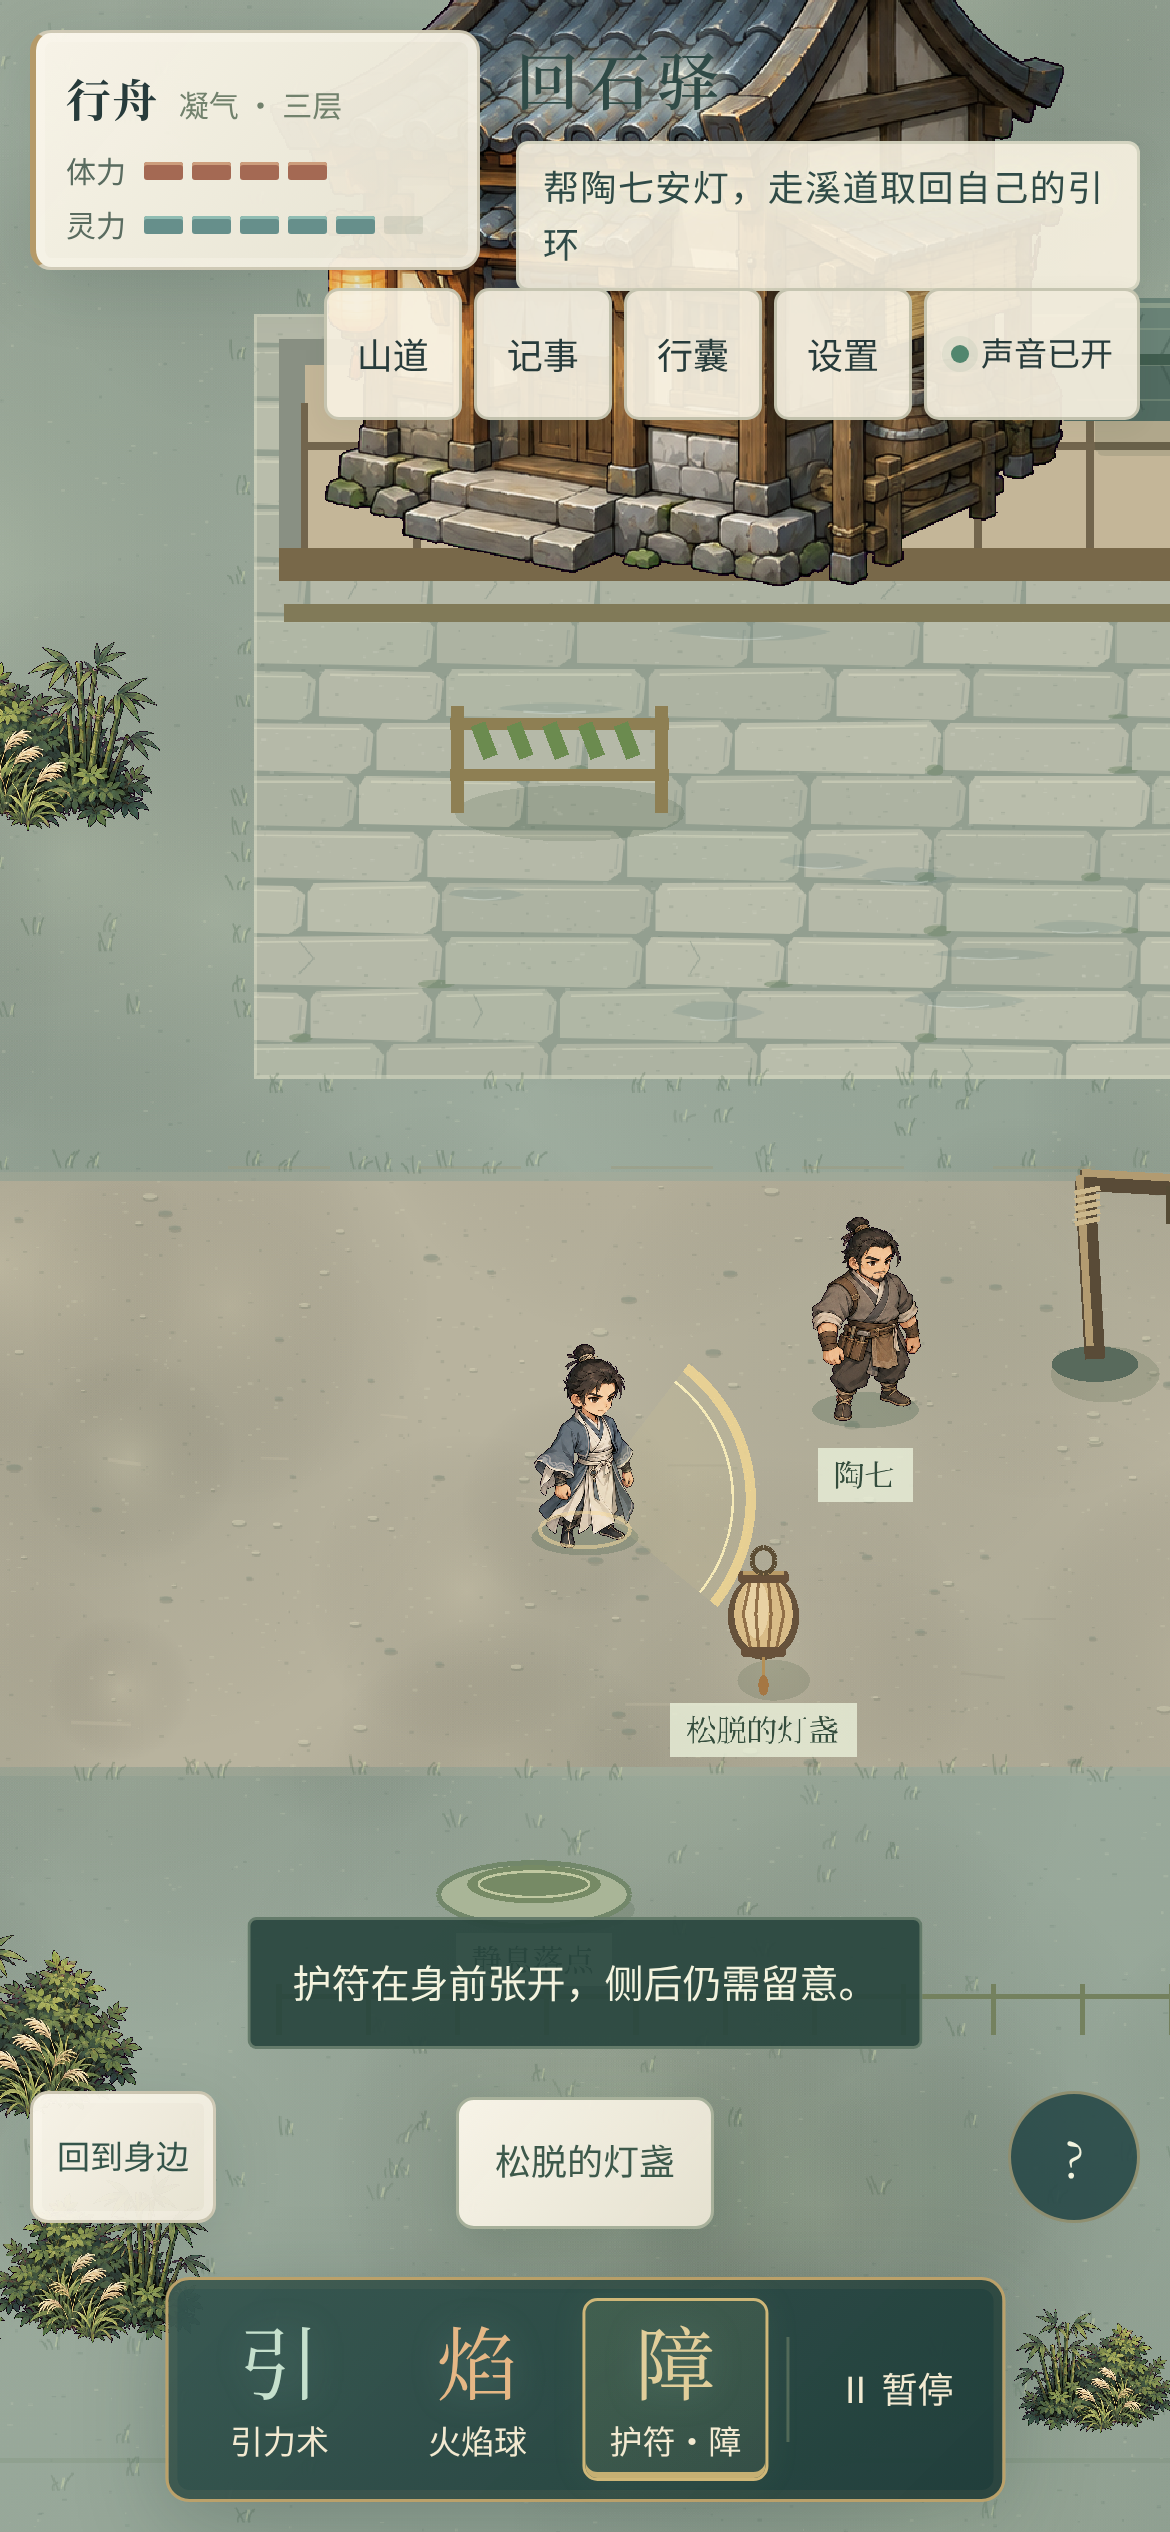
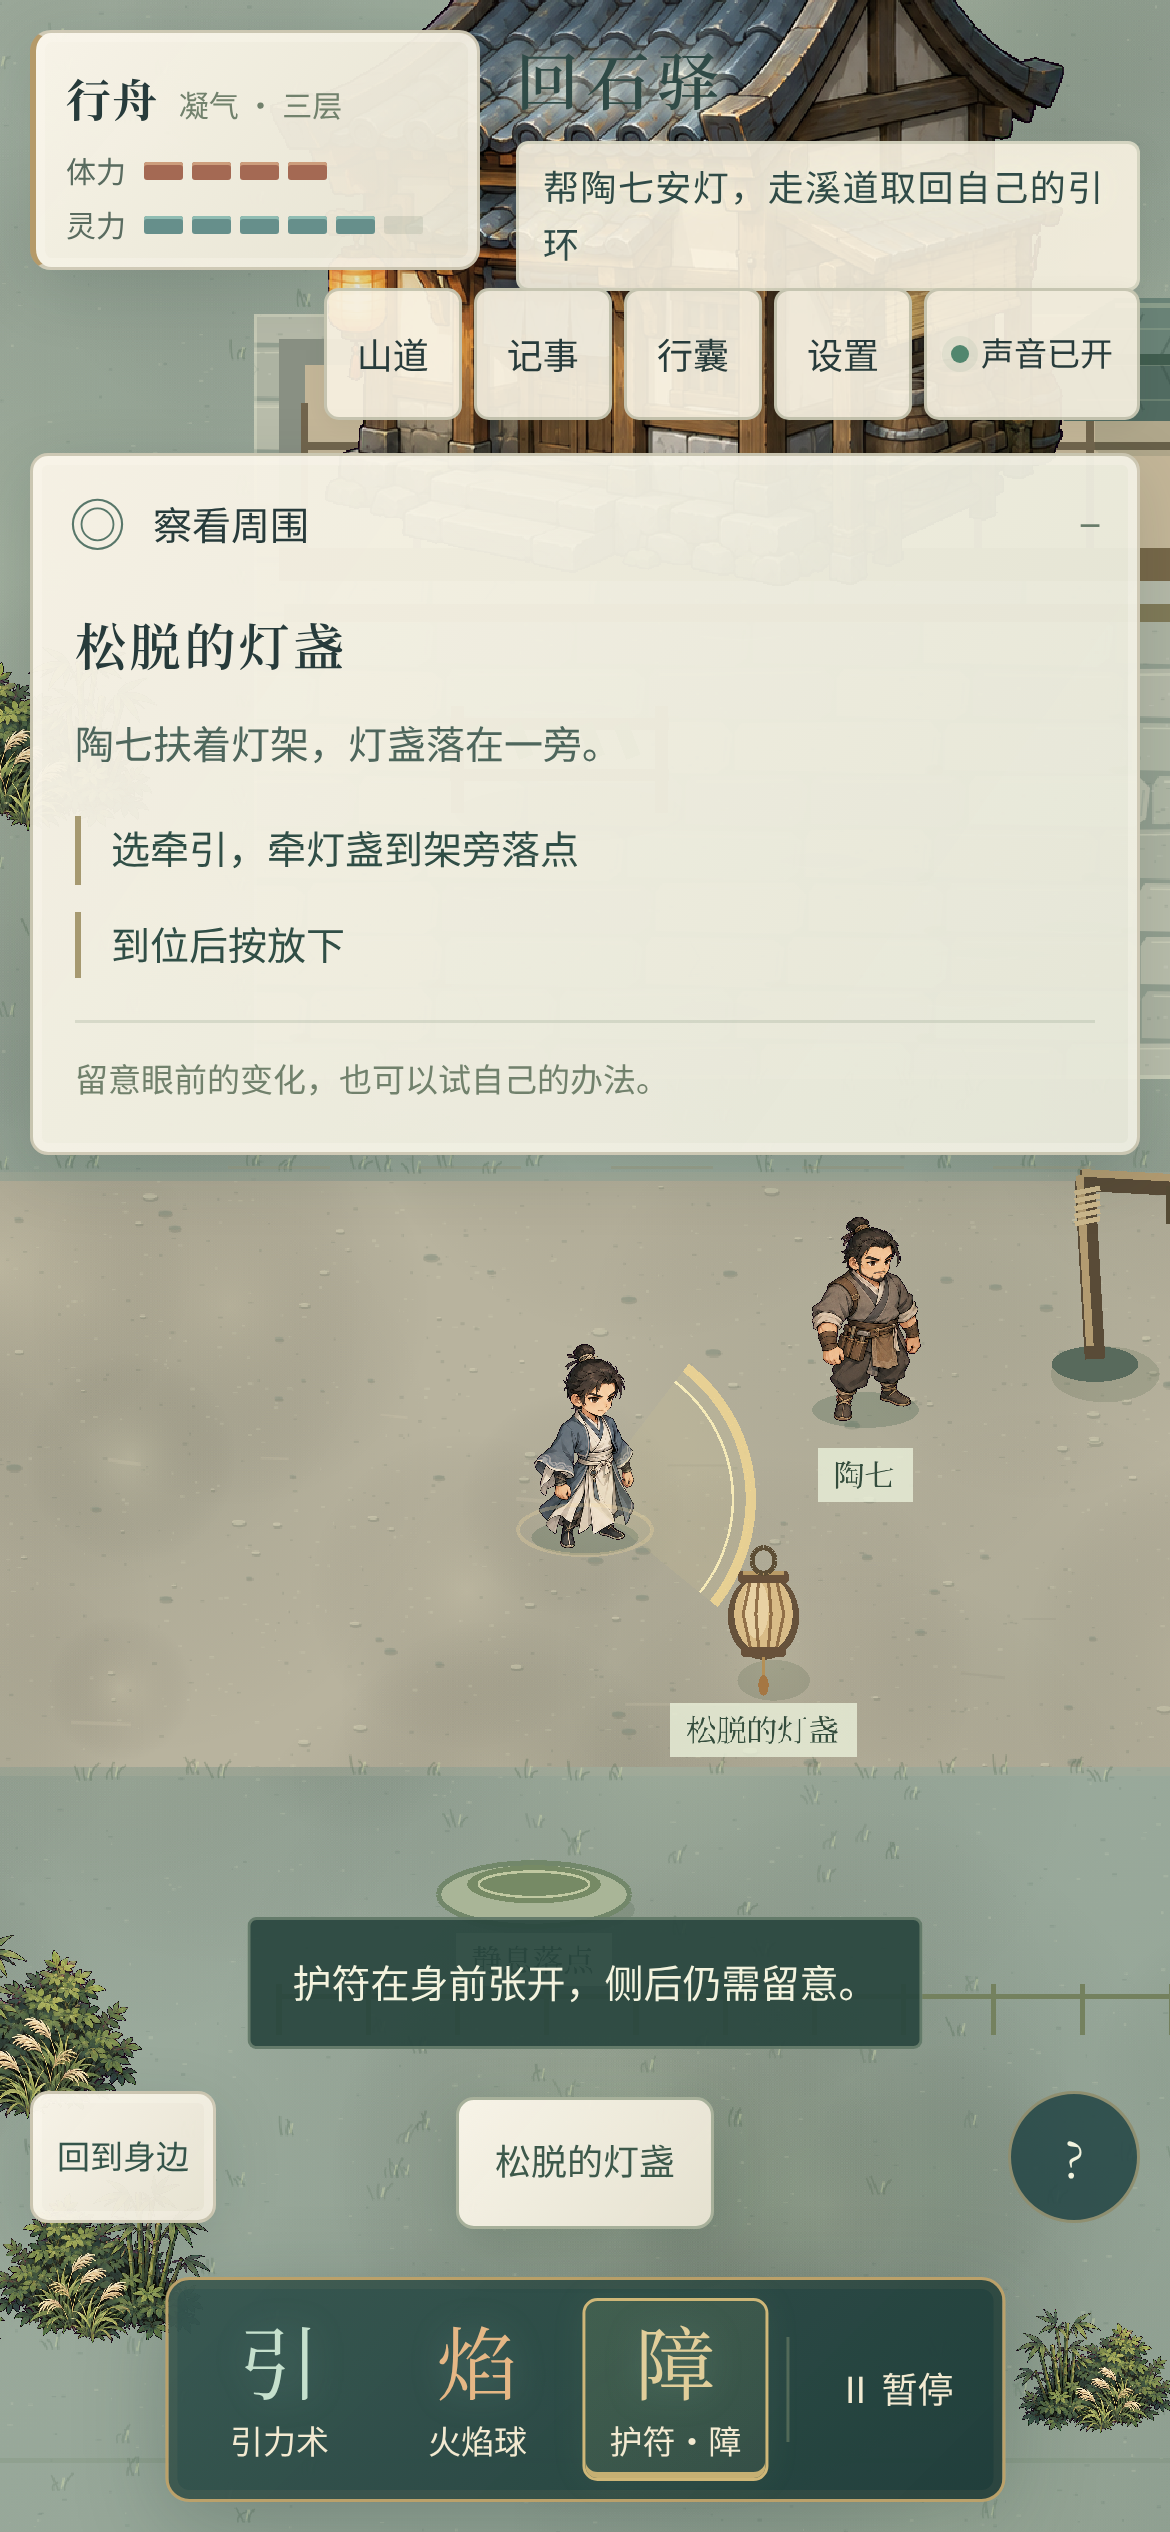
Record verified public 0.2.0 release and handoff

Changed region(s): [[0.0, 0.156, 0.9846, 0.468], [0.4615, 0.5928, 0.4923, 0.624]]

diff --git a/HANDOFF.md b/HANDOFF.md
@@ -1,37 +1,39 @@
-# 《仙逆：山门之外》首版交接
+# 《仙逆：山门之外》交接
 
-2026-09-09。先读本文件、AGENTS.md、docs/PROGRESS.md及git status/log。用户最新反馈为整体明显改善、细节仍多、当前先保留，并询问后续规划；随后回复“可以，交给你”，授权推进；本轮实施[0.2首章深化](design/PLAYABILITY_020.md)，0.3/0.4仍按路线顺序另行收敛。此前反馈为操作白线拉低质感；0.1.2 已上线并完成公网复查，移除瞄准长线/范围圈，牵物改淡青曲线、留势断开连接、手机抬手收起瞄准，详情见 [0.1.2 修订](design/QUALITY_PATCH_012.md)。此前0.1.1的高清渲染、手机布局、配乐、命中反馈继续保留。上轮 [改版目标图](design/QUALITY_REVISION.md)仍非实机，整套手绘资产重制未完成。不能把流程 PASS 当作用户认可品质；不重做小说研究或恢复旧发布拦截。
+2026-09-09。先读本文件、AGENTS.md、docs/PROGRESS.md及git status/log。用户认可0.1.2整体比此前好，细节暂时保留；后对后续路线回复“可以，交给你”。本轮已完成并发布 **0.2.0 首章玩法深化**。具体规格见[PLAYABILITY_020](design/PLAYABILITY_020.md)，后续顺序见[ROADMAP](design/ROADMAP.md)。不重读旧聊天、不重做全书研究、不续作两个封版项目。
 
 ## 交付入口
 
-- 公网试玩：https://mekanuo.github.io/xian-ni-game/ ，无需登录或安装。
-- 工作目录 /home/zhangjingzhou/workspace/xian-ni-game；源码分支feat/return-stone-v1；mekanuo/xian-ni-game默认master未改；gh-pages只放运行资源。
-- 恢复基点bf4d922，完整设计3e02f78，用户已一次确认并创建Goal批准美术、实现、测试与公网首版。
-- 历史M1 4b35f5c、M2 1982250、M3 3d5d5f1均已推送。当前0.1.2源码为034f8c1dfed087cc081c5d6c386c66d16f572fd2，发行分支提交2937aa4745cb4349a4203721c6c9b63a20b32288；线上release.json已经核对为0.1.2及该源码SHA。
-- 最后交付文档提交只更新记录/检查脚本，不改变运行包。以Git实际SHA核对最新说明，不把本文件自身SHA写成固定锚。
+- 公网：https://mekanuo.github.io/xian-ni-game/?v=0.2.0 ，无需账号或安装。
+- 工作目录/home/zhangjingzhou/workspace/xian-ni-game；源码分支feat/return-stone-v1；仓库mekanuo/xian-ni-game；master未改，gh-pages只放运行资源。
+- 恢复基点bf4d922，完整设计3e02f78；用户已确认原创小修士、空间冒险与角色扮演方向。首版Goal此前已完成，本轮没有另建Goal。
+- 0.2规则里程碑860bbb4、集成源码6c76f2c4d2d18bed62dab46a4da2e8c727dac085均已推送；发行提交00467b687ea03b7bd8af33dc8c39230fe9c6bf79，公网release.json核对为0.2.0及该源码SHA。
+- 最后交接提交只改文档、发布检查与证据，不改变运行包；其最新SHA以git log为准。
 
-## 已完成与验证范围
+## 当前实现
 
-- 四个相连场景、两种出身与心愿、引力术/火焰球/定向护符、长牵/留势实际训练、同行与补救、两条地理路线、风铃/地图/工位归来变化、存档和重开已实现。
-- 原创标题、四位主要人物、场景焦点、散修/山兽图集已接入，PNG洋红底由运行时色键处理；动画由原画翻转、摆动和状态效果组成。来源和限制见design/ASSET_LOG.md。
-- 0.1.2 npm run verify exit0，qa/verification.json六项PASS，35项模型/事件/真实Chrome WebAudio回归；手机DPR3横竖屏与旋屏触控、命中/挡击/受伤声画、菜单暂停恢复通过。完整鼠标流程亲试两种练法、同行登台、取风铃、山脊往返、共同地图、结局后继续和重开。
-- 0.1.2新截图aim-local.png、pull-qi.png、pull-mobile.png、hold-local.png、hold-ward-aim.png核对局部瞄准、淡青牵物、手机抬手及留势后切换护符方向提示。
-- 主渡及守卫/护符/同伴/补救边界有模型回归证据，不冒称主渡也已浏览器完整通关。
-- node scripts/public-check.mjs exit0：匿名线上7个运行文件哈希与已验证dist一致；桌面创建/归灯/移动，手机尺寸DPR3触控护符及实际音乐输出均通过，无pageerror。证据qa/evidence/publication.json、public-start.png、public-mobile.png。
-- Mac/Safari/触控板以及iPhone/Android真机扬声器均未实测；手机证据为Chrome触屏/DPR仿真。自然时长、用户主观趣味和打击感仍需试玩反馈。
+- 四场景、两种出身/心愿、引力术/火焰球/定向护符、长牵/留势实际训练、同行补救、主渡/山脊及归家布置、存档和重开。
+- 0.1.1高清画布、DPR3手机布局、持续合成配乐、逐事件命中反馈及暂停恢复；0.1.2取消瞄准白线/大范围圈、淡青牵物与留势脱手表现均保留。
+- 0.2可收起的“察看周围”（Q/触屏按钮），按附近场景与实际状态呈现方法；只读encounters.ts不给NPC制造见证、不改进度。
+- 0.2牵物落点轮廓、合法性和用途标记，32世界单位内辅助对齐；实际运动与消耗仍由model.ts裁决。失败施术保留重选，手机可收术，暂停待施术可取消而不扔下留势物件。
+- 点击人物/物件选择可达站位，绕障中只有canInteract成立才执行；修正恢复暂停施术后仍瞄准、同场景重开继承察看展开、安灯/修闸后提示仍要求重做等问题。
+- 原创人物/环境/敌方图集和程序材质已接入；人物仍以原画翻转、摆动及状态效果呈现。完整手绘建筑/角色与逐帧动画重制未完成，上轮quality-review/home-target.png仍是目标图而非实机。
 
-## 后续工作原则
+## 验证事实
 
-首版完成后按用户试玩反馈定位改动，不自行扩下一卷或另起研究Goal。每个后续里程碑仍及时提交推送。完整批准设计在design/REVIEW.md及其链接，研究资料在docs/research，不重复询问已锁定决定。
+- 最终npm run verify exit0，64项模型/导航/处境/反馈/真实Chrome音频测试；界面存档、DPR3横竖屏和旋屏、战斗音画、新交互/取消/重开检查均通过。
+- qa/verification.json六项PASS。两条隔离浏览器路线都真实新建→核心动作→实际归家结局→重开：山脊证据qa/evidence/run.json，主渡证据qa/evidence/main-route.json。没有注入进度。
+- 主渡新实跑包括先保护药筐再借板过桥、长牵试环、排水亲眼见证、交涉、安楔开闸和实际过河；山脊继续覆盖两种练法、同行登台与取风铃。没有穷举全部出身/失败组合，守卫/同伴边界另有模型回归。
+- 公网public-check exit0：7个运行文件SHA256与dist一致；桌面创建/牵灯/移动、手机DPR3护符、音乐输出与两端“察看周围”均通过，pageerror为空。证据qa/evidence/publication.json、public-start.png、public-mobile.png。
+- 手机仅Chrome触屏/DPR仿真；Mac/Safari、iPhone/Android真机声音、自然时长与主观趣味尚未验证。流程PASS不代表用户认可所有品质。
 
-先前workspace-write环境的automatic approval review拒绝过对外推送。后来恢复danger-full-access后已成功发布，此条仅为历史追溯，不是当前阻碍。Pages初次创建响应为空但GET与公网实测确认创建成功，脚本现以GET确认结果。
+## 后续与运行
 
-## 本地运行与发布
-
-- Node22/npm10，npm ci；npm run dev；npm run build；npm run verify。Phaser3.90、Vite7.3.6、Vitest4.1.11、Playwright1.58.2；Chrome默认/usr/bin/google-chrome。
-- .npmrc的legacy-peer-deps规避npm10处理Vitest可选peer时的空节点错误，显式Vite版本已固定。
-- 当前稀疏检出，新增目录用git add --sparse。Git凭证助手：git -c credential.helper='!gh auth git-credential' push origin feat/return-stone-v1，不显示凭证。
-- scripts/deploy-pages.mjs要求验证PASS和工作区clean，仅发布dist至gh-pages。线上版本由release.json核对；发布后运行public-check。
-- 规则仅由src/game/model.ts提交；scene处理输入与表现；__XIAN_NI__仅只读证据接口，不用于注入进度伪造通关。
-- 原文在本机../sources/仙逆.txt，不加进新提交或构建。旧历史novel.txt未重写删除。/tmp/xian-ni-first-playable.zip为本次同构建本机备份。
-- /home/zhangjingzhou/smbb与starvein-companion-cards永久封版，不读其旧历史或修改。
+- 用户已委托按路线继续；0.3成长和回驿生活、0.4下一段冒险尚未实施。先收敛具体成长用途与内容，再推进；不自动扩为全书大地图或境界速升。每个后续里程碑继续及时提交推送。
+- 已批准首章设计在design/REVIEW.md及链接；研究已存docs/research。玩家不替代王林，不获取其天逆、独占功绩或关系。
+- Node22/npm10；npm ci、npm run dev、npm run build、npm run verify。Phaser3.90、Vite7.3.6、Vitest4.1.11、Playwright1.58.2；Chrome路径/usr/bin/google-chrome。本轮临时开发/预览服务已关闭。
+- 稀疏检出，新文件用git add --sparse；Git凭证助手：git -c credential.helper='!gh auth git-credential' push origin feat/return-stone-v1。不要显示凭证。
+- deploy-pages要求验证PASS且工作区clean，仅发布dist到gh-pages；发布后核对release.json并运行public-check。
+- __XIAN_NI__只读证据接口；模型是唯一规则入口，存档结构仍为schema1/revision return-stone-v1。取消动作不会把新的待执行类型写入旧档。
+- 原文在本机../sources/仙逆.txt，不加入新提交/构建；仓库旧历史novel.txt未重写。/home/zhangjingzhou/smbb与starvein-companion-cards永久封版。
+- 先前发布审批拒绝已经解除，历史在PROGRESS；当前推送和公网发布成功，不恢复旧审批流程。

diff --git a/docs/PROGRESS.md b/docs/PROGRESS.md
@@ -5,7 +5,7 @@
 - 可达互动站位替代单一直线站位；独立审阅修复绕障时隔墙过早触发、暂停施术后仍停留瞄准、同场景重开继承察看展开态。完成安灯/修闸后的目标与对白不再提示重做。
 - 最终npm run verify exit0：64项测试，界面/存档、新增交互、手机旋屏触控、战斗音画通过；两条隔离浏览器路线均从新建完成实际归家结局与重开。qa/verification.json六项PASS，附加main-return记录在qa/evidence/main-route.json。
 - 主渡新证据含保护药筐→借板过桥→排水亲眼见证→交涉→安楔开闸→实际过河→返驿；山脊继续覆盖两种练法、同行登台、风铃、往返和重开。不是所有出身/失败组合都浏览器穷举，边界仍另有模型回归。
-- 规则里程碑860bbb4已推送；当前集成候选准备提交并部署0.2.0，公网核对结果随后补记。沿用原存档结构。手机证据为Chrome DPR3仿真，真机/Safari和主观体验仍待反馈。
+- 规则860bbb4和集成6c76f2c已推送；gh-pages发行00467b6已部署0.2.0。公网核对7文件哈希一致，桌面牵灯/移动、手机护符/音乐及两端察看入口通过，无pageerror；证据publication.json及public-start/public-mobile截图。沿用原存档结构。手机证据为Chrome DPR3仿真，真机/Safari和主观体验仍待反馈。
 
 ## 2026-09-09 M7：0.2 首章深化启动与规则里程碑
 

diff --git a/docs/superpowers/plans/2026-09-09-playability-020.md b/docs/superpowers/plans/2026-09-09-playability-020.md
@@ -38,5 +38,5 @@ Files: src/game/scene.ts, src/game/ui.ts, src/style.css
 Files: scripts/main-route-check.mjs, scripts/verify.mjs, qa/evidence/*, package.json, package-lock.json, HANDOFF.md, docs/PROGRESS.md, build/BUILD_BRIEF.md
 - [x] 新脚本从新建进入溪道，实际保护药筐后借板，取环练长牵，进入石渡示范与交涉，再安楔开闸、实际过渡、返驿结局及重开。
 - [x] 将新路线纳入现有权威verify；最终集成只跑一次完整候选，失败只在有原因时重跑。
-- [ ] 版本0.2.0；npm run verify通过后提交推送集成里程碑，deploy-pages，再public-check。
-- [ ] 更新运行范围与局限、发布SHA和新证据，提交推送交接记录。
+- [x] 版本0.2.0；npm run verify通过后提交推送集成里程碑，deploy-pages，再public-check。
+- [x] 更新运行范围与局限、发布SHA和新证据，提交推送交接记录。
